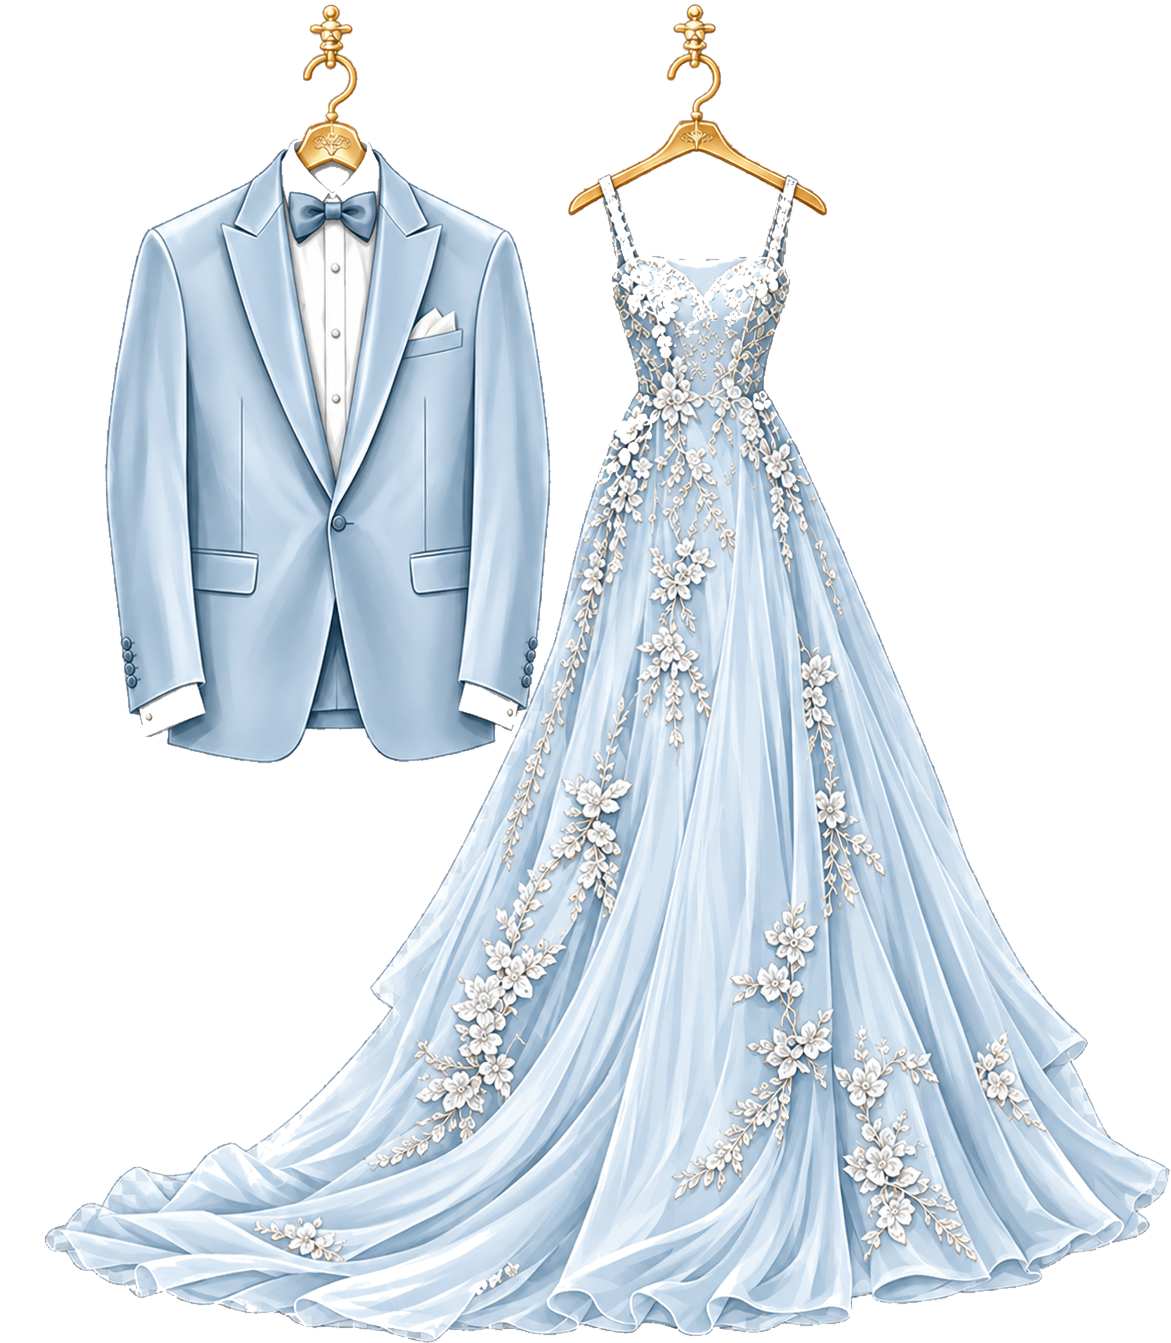
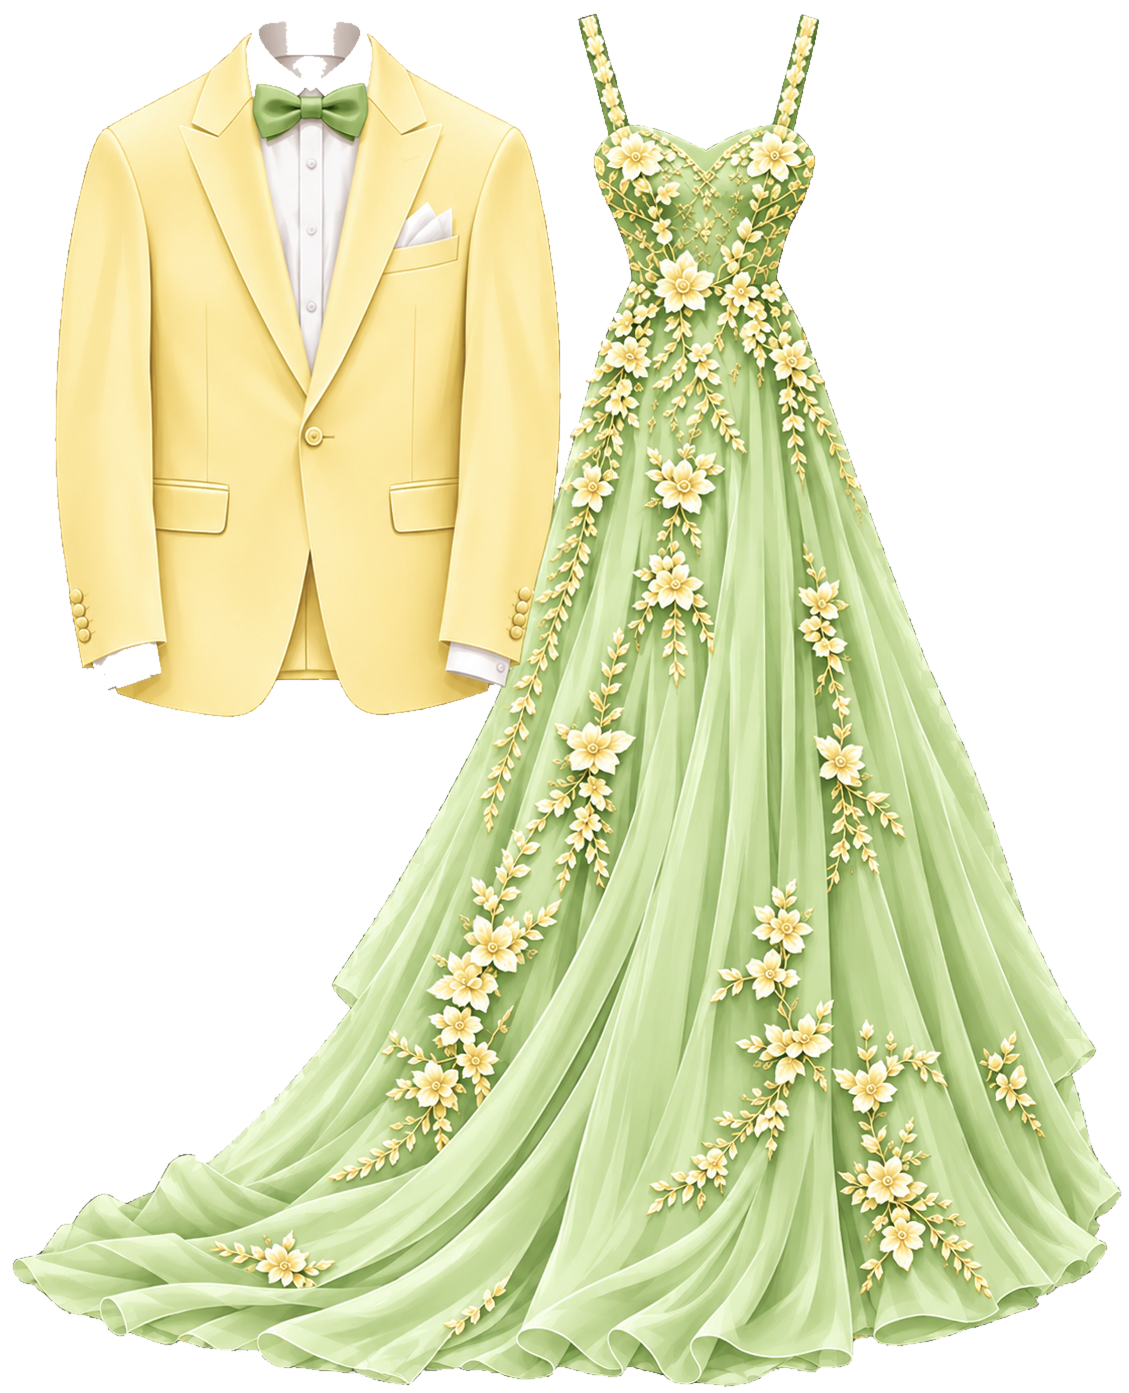
Reduce dress.png size and update with new yellow suit & sage gown artwork

diff --git a/index.html b/index.html
@@ -41,7 +41,7 @@
     href="https://fonts.googleapis.com/css2?family=Cormorant+Garamond:ital,wght@0,400;0,500;0,600;0,700;1,400;1,500&family=Great+Vibes&family=Pinyon+Script&family=Alex+Brush&family=Plus+Jakarta+Sans:wght@400;500;600&display=swap"
     rel="stylesheet" />
   <link rel="preload" as="image" href="assets/couple-embroidery.jpg?v=2" />
-  <link rel="stylesheet" href="styles.css?v=33" />
+  <link rel="stylesheet" href="styles.css?v=34" />
 </head>
 
 <body class="doors-locked">
@@ -433,7 +433,7 @@
         </div>
 
         <div class="dresscode-illustration-wrap dress-wedding-wrap">
-          <img src="assets/dress.png" alt="Wedding dress code attire — pastel powder blue suit and lace gown"
+          <img src="assets/dress.png?v=2" alt="Wedding dress code attire — pastel yellow suit and sage green gown"
             class="dress-wedding-img" />
         </div>
 

diff --git a/styles.css b/styles.css
@@ -800,8 +800,8 @@ body.doors-locked #card-stage {
 
 .dress-wedding-wrap {
   width: 100%;
-  max-width: 290px;
-  margin: 8px auto 16px;
+  max-width: 220px;
+  margin: 6px auto 14px;
   background: transparent !important;
   box-shadow: none !important;
   border: none !important;
@@ -810,7 +810,7 @@ body.doors-locked #card-stage {
 .dress-wedding-img {
   display: block;
   width: 100%;
-  max-height: 290px;
+  max-height: 225px;
   height: auto;
   object-fit: contain;
   margin: 0 auto;
